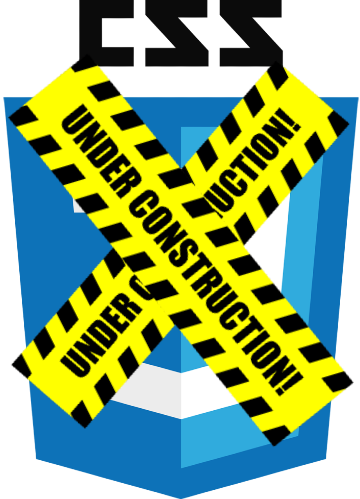
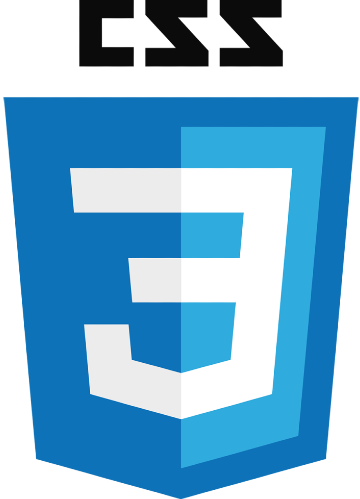
first page changed

diff --git a/style.css b/style.css
@@ -1,20 +1,8 @@
 body{
 	background-color: lightgrey;
-	margin-left: 70px;
+	margin-left: 30px;
 }
 
-.home{
-  grid-column-start: 1;
-  grid-column-end: span col4-start;
-  grid-row-start: 2;
-  grid-row-end: span 2;
-  justify-content:center;
-  padding: 4rem;
-
-}
-a{
-	margin: 80px;
-}
 
 h1{
 	text-align: center;
@@ -26,6 +14,7 @@ h1{
 	width: 400px;
 	box-shadow: 4px 4px 4px purple;
 
+
 }
 
 h2{
@@ -33,5 +22,132 @@ h2{
 	font-family: fantasy;
 
 }
+
+a{
+      display: inline-grid;
+	  grid-column-start: 1;
+      grid-column-end: span col4-start;
+      grid-row-start: 2;
+      grid-row-end: span 3;
+      justify-content: center;
+      padding: 5rem;
+      font-family: arial;
+      width: 50px;
+      height: 50px;
+      color: darkblue;
+      margin-right: 5%;
+      margin-bottom: 5%;
+
+
+ }
+
+a:hover {
+
+   color: red; 
+
+
+}
+
+.zone {
+    cursor:pointer;
+    text-align: center;
+    font-size:2em;
+    border-radius:30px;
+    border:1px solid #bbb;
+    transition: all 0.1s linear;
+ }
+
+ .zone:hover {
+    -webkit-box-shadow:rgba(0,0,0,0.8) 0px 5px 15px, inset rgba(0,0,0,0.15) 0px -10px 20px;
+    -moz-box-shadow:rgba(0,0,0,0.8) 0px 5px 15px, inset rgba(0,0,0,0.15) 0px -10px 20px;
+    -o-box-shadow:rgba(0,0,0,0.8) 0px 5px 15px, inset rgba(0,0,0,0.15) 0px -10px 20px;
+    box-shadow:rgba(0,0,0,0.8) 0px 5px 15px, inset rgba(0,0,0,0.15) 0px -10px 20px;
+    
+    
+}
+
+.pic1, .pic2, .pic3, .pic4, .pic5, .pic6, .pic7, .pic8, .pic9, .pic10, .pic11{
+    background-color: #6666ff;
+    background-size: 35%;
+    background-repeat: no-repeat;
+    background-position: center;
+
+
+}
+
+.pic2:hover, .pic3:hover, .pic4:hover, .pic5:hover, .pic6:hover, .pic7:hover, .pic8:hover, .pic9:hover,
+.pic10:hover, .pic11:hover {
+    color:transparent;
+    background-image: url(underconstruction.png);
+    background-size: 110%;
+    background-position: center;
+
+}
+.pic1{
+background-image: url(html.png);
+
+
+}
+
+.pic1:hover{
+    color:transparent;
+    background-image: url(html.png);
+    background-size: 60%;
+    background-position: center;
+}
+
+.pic2{
+background-image: url(css.png);
+
+
+}
+
+.pic3{
+background-image: url(js.png);
+
+}
+
+.pic4{
+background-image: url(bootstrap.png);
+background-size: 40%;
+}
+
+.pic5{
+background-image: url(nodejs.png);
+background-size: 60%;
+}
+
+.pic6{
+background-image: url(react.png);
+background-size: 80%;
+}
+
+.pic7{
+background-image: url(github.png);
+background-size: 80%;
+}
+
+.pic8{
+background-image: url(nmp.png);
+background-size: 40%;
+}
+
+.pic9{
+background-image: url(api.png);
+background-size: 50%;
+}
+
+.pic10{
+background-image: url(typescript.png);
+background-size: 80%;
+}
+
+.pic11{
+background-image: url(docker.png);
+background-size: 60%;
+}
+
+
+
 
 

diff --git a/index.html b/index.html
@@ -9,18 +9,30 @@
 	<h1 class="title">EZ Cheat Sheets</h1>
 
 
-<!-- 			<a class="shor">Home</a>
-			<a class="shor" href="./html/index.html">HTML</a>
-			<a class="shor" href="./css.html">CSS</a>
-			<a class="shor" href="./js/index.html">JavaScript</a>
-			<a class="shor" href="./about/index.html">AboutEZ</a>
- -->
+
 	<h2 class="sub">Click Pic For Start</h2>
 	<br>
 
-	<div class="home">
-		    <a href="./css.html"><img alt="css" src="css.png" height="400px">
+	<!-- <div class="home">
+		    <a href="./css.html"><img alt="css" src="css.png" >
 		    <a href="./html/index.html"><img alt="html" src="html.png">
-		    <a href="./js/index.html"><img alt="js" src="js.png" height="400px">
+		    <a href="./js/index.html"><img alt="js" src="js.png" >
+	</div> -->
+
+	<div>
+		<a class="zone pic1" href="./html/index.html"></a>
+		<a class="zone pic2" href="./css.html"></a>
+		<a class="zone pic3"></a>
+		<a class="zone pic4"></a>
+		<a class="zone pic5"></a>
+		<a class="zone pic6"></a>
+		<a class="zone pic7"></a>
+		<a class="zone pic8"></a>
+		<a class="zone pic9"></a>
+		<a class="zone pic10"></a>
+		<a class="zone pic11"></a>
+
 	</div>
+
+
 </html>
